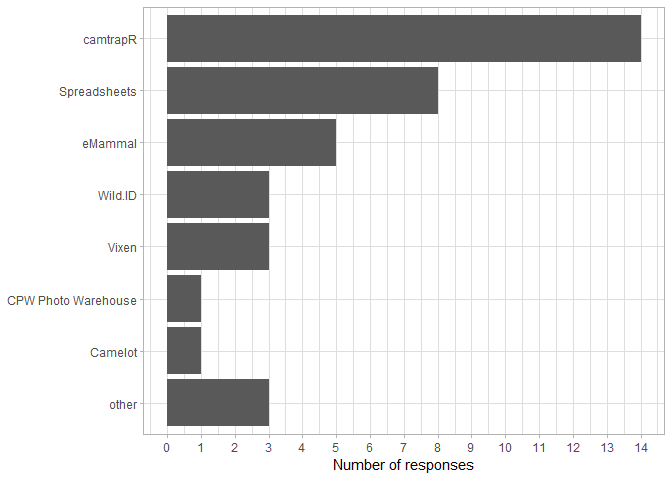
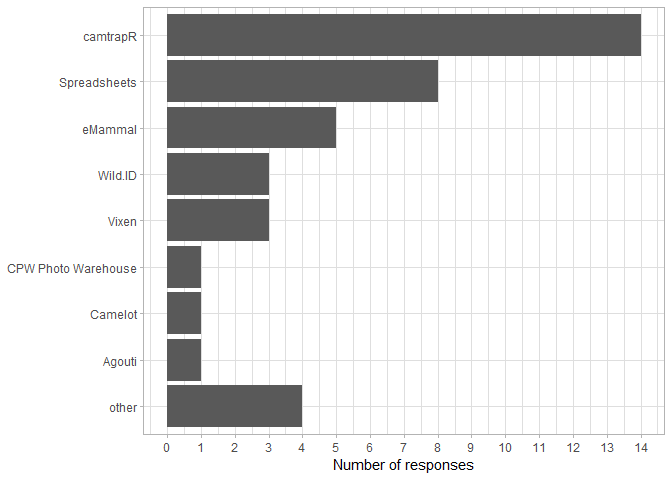
reran the analysis, added a comment

diff --git a/Readme.md b/Readme.md
@@ -7,8 +7,12 @@ Trapping Images* posted on
 [wildlabs.net](https://www.wildlabs.net/community/thread/688) on
 2019-03-21 and shared via
 [Twitter](https://twitter.com/WILDLABSNET/status/1108676937868812288?s=20)
-subsequently. We received 29 to date (2019-03-29). The survey consisted
-of four questions:
+subsequently. We received 31 to date (2019-04-09). Feel free to
+download/pull this repo to redo the analysis with the newest responses
+(the RMarkdown File `Readme.Rmd` pulls the data directly from the
+googledoc).
+
+The survey consisted of four questions:
 
 1.  What software do you use to mange your camera trapping images?
 2.  If you use other software, please comment
@@ -37,6 +41,8 @@ day](Readme_files/figure-gfm/unnamed-chunk-3-1.png)
   - Timelapse
   - Timelapse
   - Home made database KORAPhoto
+  - Custom ‘software’, which is a host of R scripts which work on the
+    image metadata
 
 <!-- end of list -->
 
@@ -50,4 +56,11 @@ day](Readme_files/figure-gfm/unnamed-chunk-3-1.png)
 
 > If you work in a different environment, please specify:
 
-(No responses)
+(below is a list of all non-empty responses)
+
+  - There are other software packages not on this list (e.g. Timelapse2
+    and the ZSL CTAT tool) which I know people use. There are some you
+    could add to your list here:
+    <https://www.researchgate.net/publication/320402776_Camera-trapping_for_conservation_a_guide_to_best-practices>
+
+<!-- end of list -->
